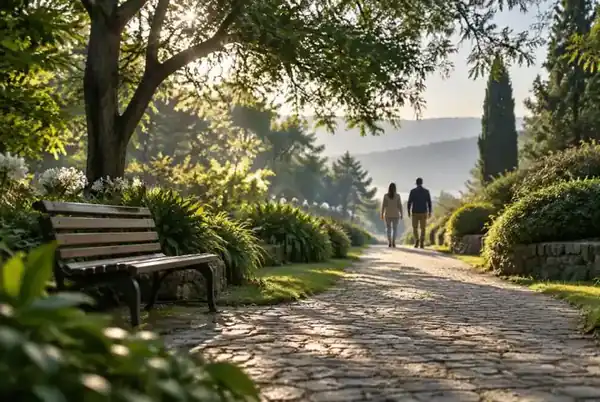
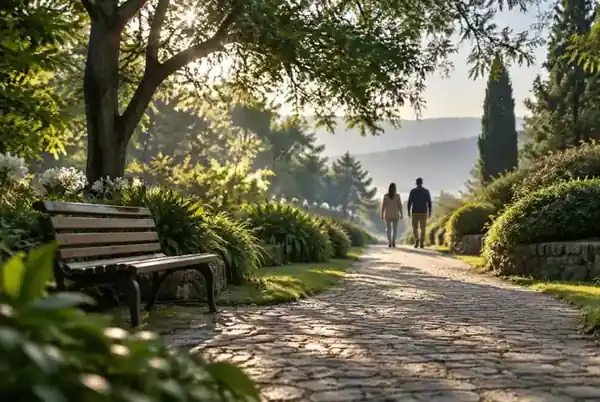
Changes

diff --git a/src/routes/index.tsx b/src/routes/index.tsx
@@ -88,7 +88,7 @@ function HomePage() {
     <div className="home-serene home-editorial min-h-screen bg-deep font-body text-foreground">
       <main id="inicio" className="mx-auto max-w-7xl px-5 sm:px-8 lg:px-12">
         <section aria-labelledby="institucional-titulo" className="relative -mx-5 overflow-hidden px-5 py-10 sm:-mx-8 sm:px-8 sm:py-12 lg:-mx-12 lg:px-12">
-          <img src={visualAssets.home.hero.src} width={1600} height={1067} decoding="async" fetchPriority="high" alt={visualAssets.home.hero.alt} className="absolute inset-0 h-full w-full object-cover" />
+          <img src={visualAssets.home.hero.src} srcSet={`${visualAssets.home.hero.mobileSrc} 600w, ${visualAssets.home.hero.src} 720w`} sizes="(max-width: 640px) 100vw, 720px" width={720} height={482} decoding="async" fetchPriority="high" alt={visualAssets.home.hero.alt} className="absolute inset-0 h-full w-full object-cover" />
           <div className="absolute inset-0 bg-foreground/80" aria-hidden="true" />
           <div className="relative max-w-4xl text-background">
             <a href={vacancyConsultationHref} target="_blank" rel="noopener noreferrer" className="inline-flex min-h-11 items-center gap-2 rounded-full bg-whatsapp px-4 py-2 text-xs font-semibold text-whatsapp-foreground"><MessageCircle className="size-4 shrink-0" aria-hidden="true" />Plantão de Orientação em Saúde Mental e Acolhimento 24h: fale no WhatsApp</a>

diff --git a/src/lib/visual-assets.ts b/src/lib/visual-assets.ts
@@ -66,6 +66,7 @@ import homeContinuity from "@/assets/concept-home-continuity.webp";
 import homeConversation from "@/assets/concept-home-conversation.webp";
 import homeFamily from "@/assets/concept-home-family.webp";
 import homeRenewal from "@/assets/concept-home-renewal.webp";
+import homeRenewalMobile from "@/assets/concept-home-renewal-600.webp";
 import homeRoutine from "@/assets/concept-home-routine.webp";
 import treatmentRoutine from "@/assets/concept-treatment-routine.webp";
 import videosProgression from "@/assets/concept-videos-progression.webp";
@@ -195,7 +196,7 @@ export const visualAssets = {
     insurance: { src: araraquaraEvaluation, alt: "Documentos organizados sobre a mesa, representação conceitual da consulta ao plano de saúde" },
   },
   home: {
-    hero: { src: homeRenewal, alt: "Caminho arborizado com duas pessoas caminhando juntas ao amanhecer" },
+    hero: { src: homeRenewal, mobileSrc: homeRenewalMobile, alt: "Caminho arborizado com duas pessoas caminhando juntas ao amanhecer" },
     conversation: { src: homeConversation, alt: "Conversa acolhedora representada por duas pessoas junto a uma mesa" },
     welcome: { src: welcomeListening, alt: "Duas pessoas em uma conversa de escuta e acolhimento" },
     routine: { src: homeRoutine, alt: "Caderno e água próximos a uma porta aberta para um jardim" },
